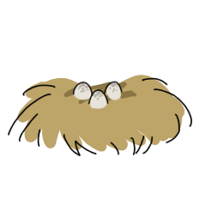
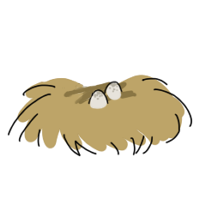
nest changes images based on eggs left, arrows added to migrating tutorial, breeding model restarts if lost

Changed region(s): [[0.33, 0.39, 0.48, 0.54]]

diff --git a/src/MigratingTutorial.java b/src/MigratingTutorial.java
@@ -1,7 +1,7 @@
 import java.util.*;
 
 /**
- * Prompts player to collide with a gust and a hawk to show what happens
+ * Prompts player to move, collide with a gust, and avoid hawks to show what happens
  * @author Anna
  *
  */
@@ -18,6 +18,10 @@ public class MigratingTutorial extends MigratingModel {
 
 	private int tutorialGustVelocity = -12;
 	private int tutorialEnemyVelocity = -12;
+	
+	private Arrow arrow1 = new Arrow(frameWidth*2/5, frameHeight*1/4);
+	private Arrow arrow2 = new Arrow(frameWidth*2/5, frameHeight*2/4);
+	private Arrow arrow3 = new Arrow(frameWidth*2/5, frameHeight*3/4);
 
 	
 	MigratingTutorial(int w, int h, boolean isMigrate) {
@@ -31,16 +35,15 @@ public class MigratingTutorial extends MigratingModel {
 		mouse.enableUpDown();
 		tutorialObjects.add(mouse);
 		tutorial = true;
-		//gusts.add(new Gust(frameWidth-10,150));
-		//PointerArea pointer = new PointerArea(500, 150, 50);
-		//tutorialObjects.add(pointer);
-		//pointer = new PointerArea(h, h, h);
 	}
 	
 	private void generateGustLine() {
 		flyingObjects.add(new Gust(frameWidth, frameHeight*1/4, tutorialGustVelocity));
 		flyingObjects.add(new Gust(frameWidth, frameHeight*2/4, tutorialGustVelocity));
 		flyingObjects.add(new Gust(frameWidth, frameHeight*3/4, tutorialGustVelocity));
+		tutorialObjects.add(arrow1);
+		tutorialObjects.add(arrow2);
+		tutorialObjects.add(arrow3);
 	}
 	
 	private void generateEnemyLine() {
@@ -48,6 +51,8 @@ public class MigratingTutorial extends MigratingModel {
 		flyingObjects.add(new Hawk(frameWidth, frameHeight*2/4, tutorialEnemyVelocity));
 		flyingObjects.add(new Hawk(frameWidth, frameHeight*3/4, tutorialEnemyVelocity));
 		flyingObjects.add(new Hawk(frameWidth, frameHeight, tutorialEnemyVelocity));
+		tutorialObjects.remove(arrow2);
+		tutorialObjects.remove(arrow3);
 	}
 	
 	@Override
@@ -59,20 +64,18 @@ public class MigratingTutorial extends MigratingModel {
 		return r;
 	}
 	
+	
+	/**
+	 * handles transition of stages. 
+	 * stage 0 is initial, 1 is powerup tutorial, 2 is avoid enemy tutorial, 3 is end sequence
+	 */
 	@Override
 	public void update() {
 		super.update();
 		if(delay > 0){
 			delay--;
 		}
-		
-		/*
-		 * if stage 0, delay 0 -> stage 1, remove mouse, maxGust = smth, restart delay
-		 * if 1 and bird collide with gust -> stage 2, maxGust = 0, restart delay
-		 * 
-		 * have predators in line??
-		 */
-
+	
 		if(stage == 0 && delay == 0) {
 			stage=1;
 			tutorialObjects.remove(mouse);
@@ -90,6 +93,8 @@ public class MigratingTutorial extends MigratingModel {
 					generateEnemyLine();
 					hitEnemy = false;
 			}
+		}else {
+			tutorialObjects.remove(arrow1);
 		}
 	}
 	
@@ -129,7 +134,7 @@ public class MigratingTutorial extends MigratingModel {
 		}
 	}
 	
-	//note to change this later
+	
 	@Override
 	public boolean endSequence() {
 		return (stage == 3 && flyingObjects.isEmpty());

diff --git a/src/View.java b/src/View.java
@@ -24,13 +24,12 @@ class View extends JPanel {
 	static int frameWidth = (int) computerScreen.getWidth();
 	static int frameHeight = (int) computerScreen.getHeight()- taskBarSize;
 	static Dimension windowSize = new Dimension(frameWidth, frameHeight);
-	int questionNumber = 0;
 			
 	BufferedImage bird;
 	//final String[] IMAGE_NAMES_STATIC = {"nest", "rock1", "rock2", "grass1", "grass2", "grass3", "grass4", "grass5"};
 	static final String[] IMAGE_NAMES_ANIMATED = {"walkingbird", "standingbird", "brokenwingbird", "migratingbird", "earthworm", "beetle", "grasshopper", 
 												"hawk", "raccoon", "pointerarea", "gust", "bag", "nest", "cloud1", "cloud2", "cloud3", "migratingbird-powerup", "migratingbird-powerdown",
-												"mousedefault", "mouserightclick", "mouseleftclick","mouserighthold"};
+												"mousedefault", "mouserightclick", "mouseleftclick","mouserighthold", "arrow"};
 	static final String[] DIRECTION_NAMES = {"right", "down", "left", "up"};
 	HUD hud;
 	int[] hudargs;
@@ -135,7 +134,6 @@ class View extends JPanel {
 
 		Object[] quizAnswers = quiz.getQuizAnswers();
 		int answer = JOptionPane.showOptionDialog(null, quiz.getQuestion(), "Quiz Time!", JOptionPane.YES_NO_CANCEL_OPTION, JOptionPane.QUESTION_MESSAGE, null, quizAnswers, quiz.getCorrectAnswer());
-		System.out.println(answer);
 		if(answer == -1) {
 			JOptionPane.showOptionDialog(null, "Can't exit quiz", "Answer the question", JOptionPane.DEFAULT_OPTION, JOptionPane.ERROR_MESSAGE, null, null, null);
 			buildQuiz(quiz);
@@ -145,9 +143,16 @@ class View extends JPanel {
 			JOptionPane.showOptionDialog(null, "SORRY, INCORRECT.", "Try Again", JOptionPane.DEFAULT_OPTION, JOptionPane.INFORMATION_MESSAGE, null, null, null);
 			buildQuiz(quiz);
 		}
-		
-		questionNumber++;
-		
+
+	}
+	
+	/**
+	 * called to open popup stating lost game, try again.
+	 * specifically says lost all eggs, but can make more general later
+	 * @author Anna
+	 */
+	public void restartGamePrompt() {
+		JOptionPane.showOptionDialog(null, "Lost all eggs \nRetry game?", "Lost Game", JOptionPane.DEFAULT_OPTION, JOptionPane.PLAIN_MESSAGE, null, null, null);
 	}
 
 	public void paint(Graphics g) {

diff --git a/src/BreedingModel.java b/src/BreedingModel.java
@@ -16,7 +16,7 @@ public class BreedingModel extends Model {
 	int switchDir;
 	int correctAnswer;
 	boolean isMigrating;
-	int numPredators = 3;
+	int numPredators = 4; //including tutorial one, when restart don't play tutorial
 	boolean tutorialMove = true;
 	boolean tutorial = true;
 	Mouse mouse;
@@ -67,6 +67,19 @@ public class BreedingModel extends Model {
 		isMigrating = true;
 	}	
 	
+	/**
+	 * called from Controller if eggs drops to 0, 
+	 * start game again without tutorial
+	 */
+	void retryGame() {
+		quizTime = false;
+		distractCountdown = DISTRACT_DURATION;
+		numPredators = 3;
+		questionNumber = -1;
+		nest.numEggs = 3;
+		generatePredators();
+	}
+	
 	void setDestination(int x, int y) {
 		this.bird.setDestination(x, y);
 	}
@@ -102,7 +115,7 @@ public class BreedingModel extends Model {
 		if (p.collidesWith(nest)) {
 			p.setCollidedWithNest(true); //turns collision off so it can leave nest smoothly 
 			nest.numEggs -= 1;
-			System.out.println("bird collided with n");
+			System.out.println(nest.numEggs);
 		}
 	}
 	
@@ -246,5 +259,8 @@ public class BreedingModel extends Model {
 	Quiz getQuiz() {
 		questionNumber++;
 		return new Quiz(questionNumber);
+	}
+	public boolean loseGame() {
+		return (nest.numEggs <= 0);
 	}
 }

diff --git a/src/Controller.java b/src/Controller.java
@@ -73,6 +73,9 @@ public class Controller implements MouseMotionListener, MouseListener{
 					Quiz quiz = bModel.getQuiz();
 					view.buildQuiz(quiz);
 					bModel.setQuizTime(false);
+				}else if(bModel.loseGame()) {
+					view.restartGamePrompt();
+					bModel.retryGame();
 				}
 			}
 			
@@ -104,7 +107,7 @@ public class Controller implements MouseMotionListener, MouseListener{
 	}
 	
 	private void winGame() {
-		System.out.println("you won.");
+		//System.out.println("you won.");
 	}
 	
 	public void mouseClicked(MouseEvent e) {

diff --git a/src/Nest.java b/src/Nest.java
@@ -23,13 +23,13 @@ public class Nest extends Moveable{
 	public double getFacing() {
 		switch(numEggs) {
 			case 3: 
-				return 0;
+				return 0; //right direction
 			case 2:
-				return 1;
+				return 1; //down
 			case 1:
-				return 3;
+				return 3; //left
 			default:
-				return 4;
+				return 4; //up
 		}
 	}
 	
